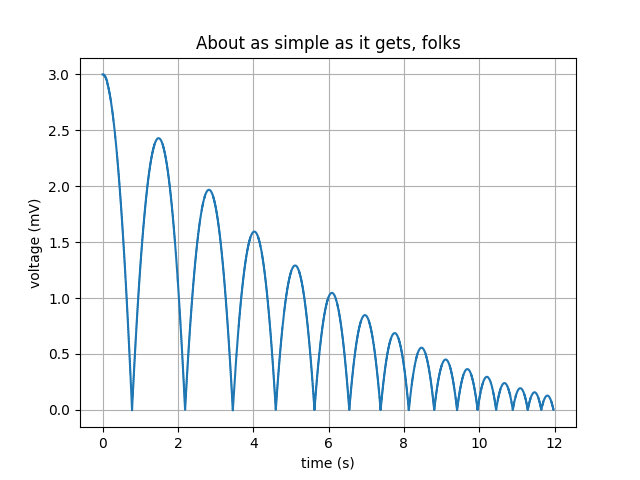
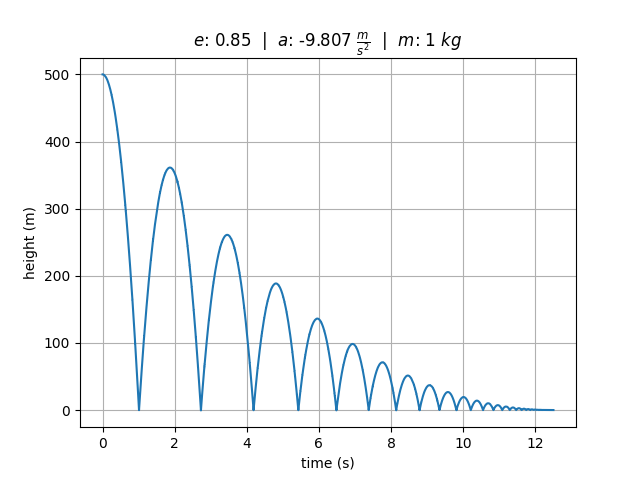
pelota

diff --git a/Physics/Visualization.py b/Physics/Visualization.py
@@ -7,18 +7,18 @@ from Fisica import AUMENTO_APLICADO
 import matplotlib.pyplot as plt
 from matplotlib.collections import EventCollection
 import numpy as np
-
+from Agent import *
 pygame.init()
 
 def to_pygame(coords, height, obj_height):
     """Convert an object's coords into pygame coordinates (lower-left of object => top left in pygame coords)."""
     return (coords[0], height - coords[1] - obj_height)
 
-size = width, height = 300, 800
+size = width, height = 400, 800
 screen = pygame.display.set_mode(size)
 
 # Entidad fisica
-entidad = Entidad(x=130*AUMENTO_APLICADO, y=3*AUMENTO_APLICADO, velocidad=0, masa=1, coeficiente_restitución=0.9, en_caida=True)
+entidad = Entidad(x=130*AUMENTO_APLICADO, y=5*AUMENTO_APLICADO, velocidad=0, masa=1, coeficiente_restitución=0.85, en_caida=True)
 posicion_inicial = entidad.pos.y
 velocidad_inicial = entidad.velocidad
 
@@ -57,31 +57,34 @@ while 1:
             posicion_inicial = 0
             velocidad_inicial = v1
             
-            #print( "t", t, "ep", round(ep, 2), "ec", round(ec, 2), "em", round(em, 2), "u1", round(u1, 2), "v1", round(v1, 2), "velocidad:", round(entidad.velocidad, 2))
+            print( "t", t, "ep", round(ep, 2), "ec", round(ec, 2), "em", round(em, 2), "u1", round(u1, 2), "v1", round(v1, 2), "velocidad:", round(entidad.velocidad, 2))
             START_TIME = time.time()
             entidad.max_pos_y = 0
             
-            if(v1 > 3 and sonido):
-                crash_sound = pygame.mixer.Sound("D:\GitRepos\learning-manim\Physics\clack.wav")
-                crash_sound.set_volume(100*(v1/100000))
-                #pygame.mixer.Sound.play(crash_sound)
+            
+            if(v1 > 1.5 and sonido):
+                crash_sound = pygame.mixer.Sound("D:\GitRepos\python_visualization\Physics\clack.wav")
+                crash_sound.set_volume(200*(v1/100000))
+                pygame.mixer.Sound.play(crash_sound)
             else:
                 sonido = False
-                
-            if(v1 < 1.5 or u1 < 1):
+            
+            if(v1 < 0.5 or u1 < 0.5):
                 entidad.en_caida = False
+                sonido = False
                 
                 fig, ax = plt.subplots()
                 ax.plot(tiempo_arr, altura_arr)
+                title = r"$\frac{ m }{ s^2 }$"
 
-                ax.set(xlabel='time (s)', ylabel='voltage (mV)', title='About as simple as it gets, folks')
+                ax.set(xlabel='time (s)', ylabel='height (m)', title= r"${e}$: " + str(entidad.coeficiente_restitución) + r"  |  ${a}$: " + str(GRAVEDAD_TIERRA_NEGATIVO/AUMENTO_APLICADO) + r" $\frac{ m }{ s^2 }$" + r"  |  ${m}$: " + str(entidad.masa) + r"$\ kg $" )
                 ax.grid()
 
                 fig.savefig("test.png")
                 plt.show()
-        
+            
     screen.fill((0, 0, 0))
-    pygame.draw.rect(screen, (0,255,0), pygame.Rect(0, 799, 300, 1))
+    #pygame.draw.rect(screen, (0,255,0), pygame.Rect(0, 799, 300, 1))
     pygame.draw.circle(screen, (255,0,0), to_pygame((200,entidad.pos.y), 800, 50), 50)
     pygame.display.flip()
     

diff --git a/Physics/Fisica.py b/Physics/Fisica.py
@@ -9,7 +9,7 @@ START_TIME = time.time()
 GRAVEDAD_TIERRA_POSITIVO = 9.807 # m/s
 GRAVEDAD_TIERRA_NEGATIVO= -9.807 # m/s
 
-AUMENTO_APLICADO = 1
+AUMENTO_APLICADO = 100
 
 GRAVEDAD_TIERRA_POSITIVO *= AUMENTO_APLICADO
 GRAVEDAD_TIERRA_NEGATIVO *= AUMENTO_APLICADO
